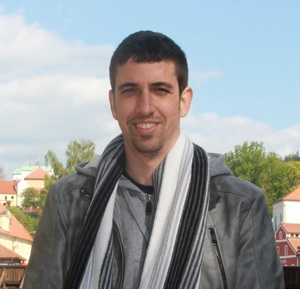
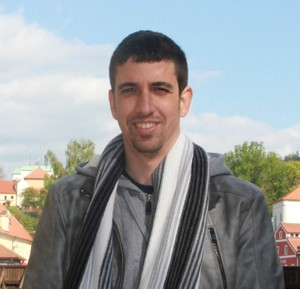
feat: created helpers to load responsive images

diff --git a/src/components/AboutMe/AboutMe.jsx b/src/components/AboutMe/AboutMe.jsx
@@ -2,27 +2,11 @@ import React from 'react';
 
 import Chip from './Chip';
 import ProgressBar from './ProgressBar';
+import { ProfilePicImage } from '../../helpers/images';
 
 import './AboutMe.css';
-
-import profilePic200 from '../../../static/images/profile-pic-200.jpg';
-import profilePic300 from '../../../static/images/profile-pic-300.jpg';
-import profilePic400 from '../../../static/images/profile-pic-400.jpg';
-import profilePic200webp from '../../../static/images/profile-pic-200.webp';
-import profilePic300webp from '../../../static/images/profile-pic-300.webp';
-import profilePic400webp from '../../../static/images/profile-pic-400.webp';
-
 import profileIcon from '../../../static/icons/profile.svg';
 import bookIcon from '../../../static/icons/book.svg';
-import ResponsiveImage from '../shared/ResponsiveImage';
-
-const imagesInfo = {
-  sizes: [200, 300, 400],
-  filesJpg: [profilePic200, profilePic300, profilePic400],
-  filesWebp: [profilePic200webp, profilePic300webp, profilePic400webp],
-  alt: `Jaime Vega's face`,
-  sizesCalc: '(max-width: 500px) 100vw, 20vw',
-};
 
 const AboutMe = () => {
   return (
@@ -163,13 +147,7 @@ const AboutMe = () => {
 
       <div className="right-column">
         <div className="profile-pic-container">
-          <ResponsiveImage
-            alt={imagesInfo.alt}
-            sizesCalc={imagesInfo.sizesCalc}
-            sizes={imagesInfo.sizes}
-            filesJpg={imagesInfo.filesJpg}
-            filesWebp={imagesInfo.filesWebp}
-          />
+          <ProfilePicImage />
         </div>
         <section>
           <h2>Skills</h2>

diff --git a/src/helpers/images.jsx b/src/helpers/images.jsx
@@ -1,0 +1,66 @@
+import React from 'react';
+import ResponsiveImage from '../components/shared/ResponsiveImage';
+
+const importAll = require =>
+  require.keys().reduce((acc, next) => {
+    // eslint-disable-next-line import/no-dynamic-require
+    acc[next.replace('./', '')] = require(next);
+    return acc;
+  }, {});
+
+const allImages = importAll(
+  require.context('../../static/images', false, /\.(jpe?g|webp)$/),
+);
+
+const getResponsiveImage = (imageName, alt, sizesCalc) => {
+  const sizes = [200, 300, 400, 600];
+
+  const images = Object.keys(allImages).filter(image =>
+    image.startsWith(imageName),
+  );
+
+  const [filesJpg, filesWebp] = images.reduce(
+    ([jpgFiles, webPFiles], current) => {
+      const filePath = allImages[current];
+
+      return /\.webp$/.test(current)
+        ? [jpgFiles, [...webPFiles, filePath]]
+        : [[...jpgFiles, filePath], webPFiles];
+    },
+    [[], []],
+  );
+
+  const imagesInfo = {
+    sizes,
+    filesJpg,
+    filesWebp,
+    alt,
+    sizesCalc,
+  };
+
+  return (
+    <ResponsiveImage
+      alt={imagesInfo.alt}
+      sizesCalc={imagesInfo.sizesCalc}
+      sizes={imagesInfo.sizes}
+      filesJpg={imagesInfo.filesJpg}
+      filesWebp={imagesInfo.filesWebp}
+    />
+  );
+};
+
+export const SecurityHeaderImage = () => {
+  return getResponsiveImage(
+    'security-headers',
+    'alt value',
+    '(max-width: 500px) 100vw, 66vw',
+  );
+};
+
+export const ProfilePicImage = () => {
+  return getResponsiveImage(
+    'profile-pic',
+    `Jaime Vega's face`,
+    '(max-width: 500px) 100vw, 20vw',
+  );
+};
